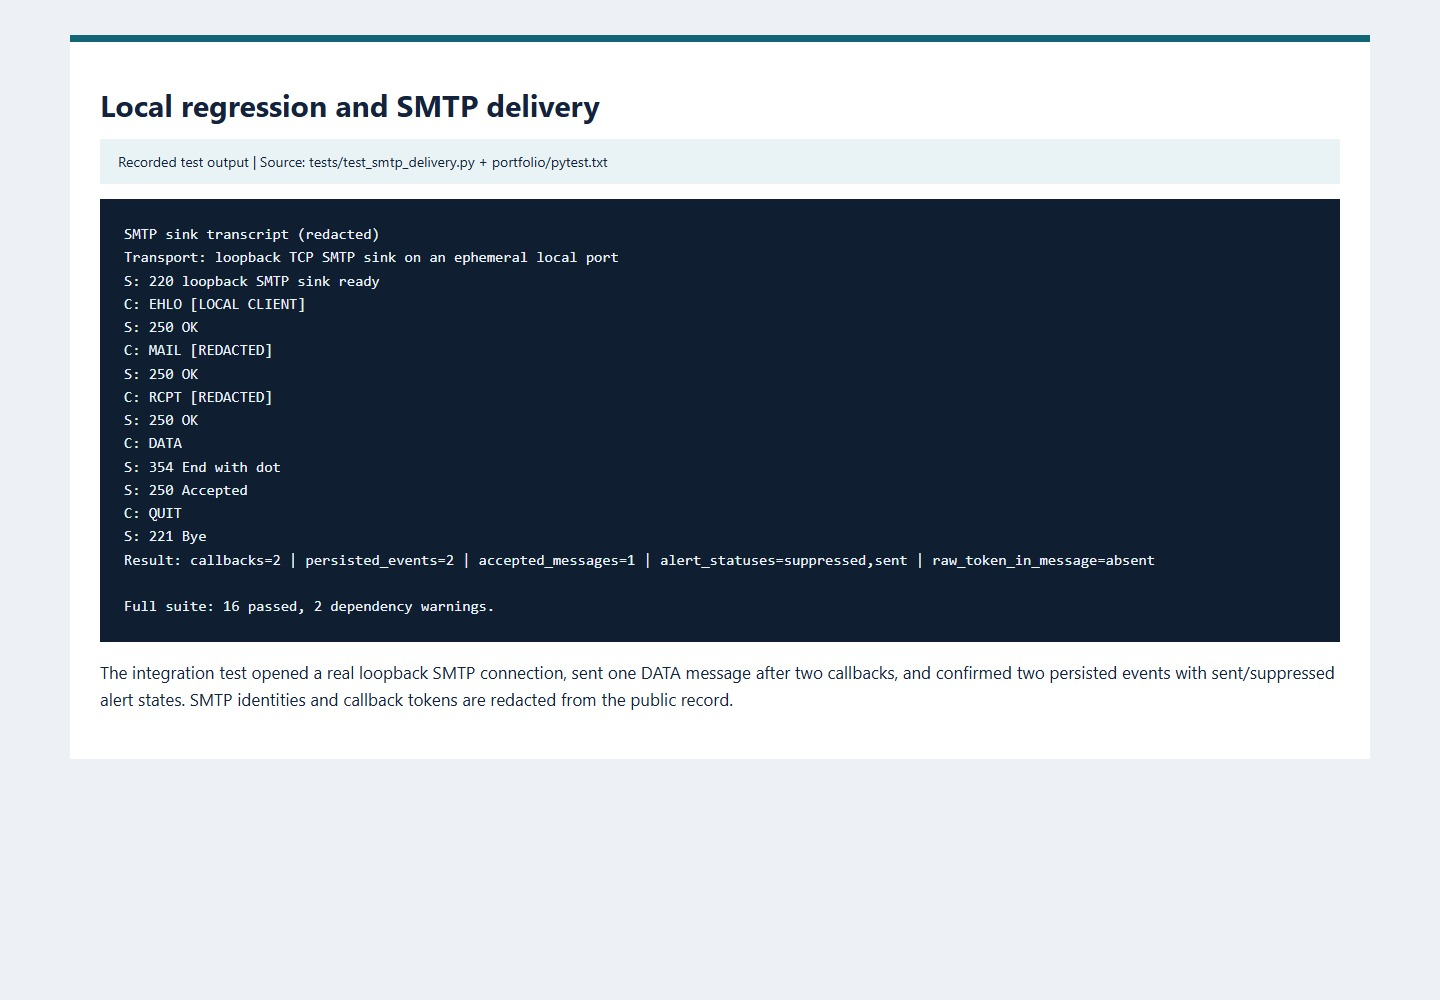
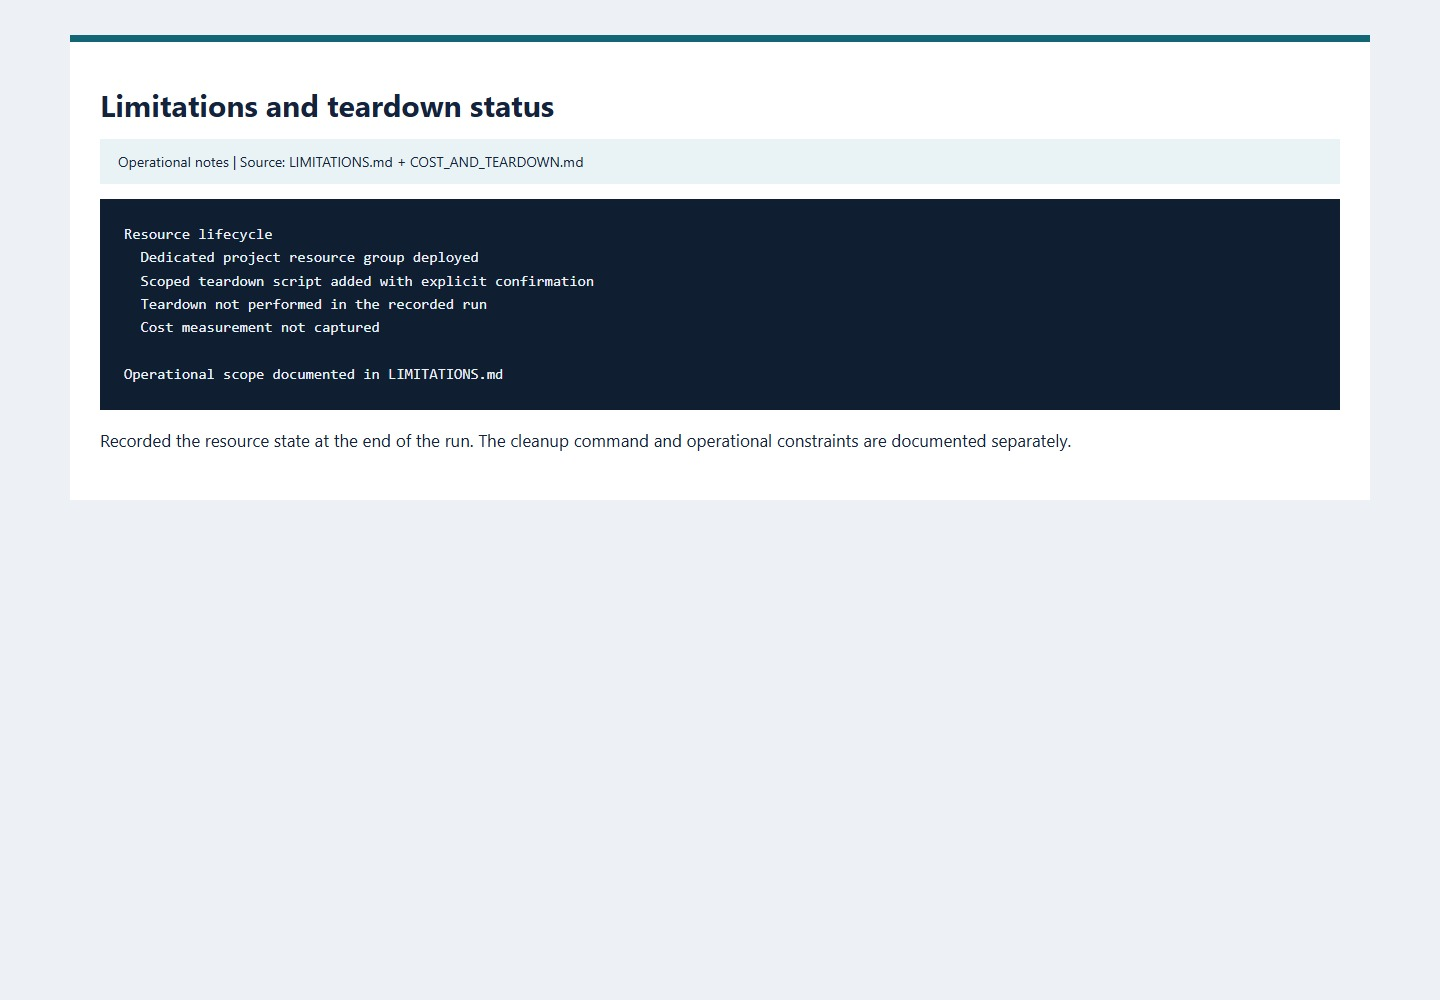
Consolidate duplicate CI evidence

Changed region(s): [[0.0625, 0.217, 0.9375, 0.713], [0.0625, 0.093, 0.4375, 0.124], [0.0938, 0.155, 0.4062, 0.186]]

diff --git a/docs/evidence/public/index.html b/docs/evidence/public/index.html
@@ -1,1 +1,1 @@
-<!doctype html><html lang="en"><meta charset="utf-8"><meta name="viewport" content="width=device-width,initial-scale=1"><title>Honey Token — screenshot walkthrough</title><style>body{margin:0;background:#edf1f5;color:#14233b;font:17px/1.55 Segoe UI,Arial}main{max-width:1240px;margin:35px auto;padding:30px;background:white;border-top:7px solid #126675}h1{font-size:30px;margin:10px 0}.meta{padding:12px 18px;background:#e9f2f4;font-size:14px}pre{white-space:pre-wrap;overflow-wrap:anywhere;font:15px/1.55 Consolas,monospace;background:#101e32;color:#ebf3fa;padding:24px}a{color:#126675}img{max-width:100%;height:auto}article{margin:36px 0;padding-top:20px;border-top:1px solid #ccd5dc}</style><main><h1>Honey Token</h1><p>Project walkthrough recorded on 7 September 2026, covering setup, deployment, document retrieval, event triage, Sentinel ingestion, and tests. Word and GitHub images are application captures; Azure images use saved deployment responses and query results.</p><p>Account details, email addresses, source IPs, tenant/subscription identifiers, callback tokens, and resource endpoints are redacted or excluded. Raw records remain outside this package.</p><h2>Project walkthrough</h2><ol><li><a href="#step01">Purpose and architecture</a></li><li><a href="#step02">Starting state and baseline</a></li><li><a href="#step03">Infrastructure deployment</a></li><li><a href="#step04">Receiver security configuration</a></li><li><a href="#step05">Deployed receiver health</a></li><li><a href="#step06">Word renders the synthetic decoy</a></li><li><a href="#step07">Word callback and triage</a></li><li><a href="#step08">Persisted events and delivery outcomes</a></li><li><a href="#step09">Log Analytics ingestion</a></li><li><a href="#step10">Sentinel analytic rule</a></li><li><a href="#step11">Sentinel incident</a></li><li><a href="#step12">GitHub main CI status</a></li><li><a href="#step13">GitHub test job</a></li><li><a href="#step14">GitHub pytest log</a></li><li><a href="#step15">Local regression and SMTP delivery</a></li><li><a href="#step16">Secret scanning</a></li><li><a href="#step17">Limitations and teardown status</a></li></ol><article id="step01"><h2>01. Purpose and architecture</h2><div class="meta">Design summary | Source: ARCHITECTURE.md</div><p>Extended the local document-token receiver with Azure Table Storage and Sentinel ingestion. Word and cloud callbacks were exercised separately.</p><a href="01-evidence.jpg"><img loading="lazy" src="01-evidence.jpg" alt="Purpose and architecture"></a></article><article id="step02"><h2>02. Starting state and baseline</h2><div class="meta">Archived record, captured 2026-09-07 | Source: 00-azure-start-state.json + docs/BASELINE.md</div><p>Recorded the local SQLite starting point and nine passing baseline tests before adding the Azure adapters.</p><a href="02-evidence.jpg"><img loading="lazy" src="02-evidence.jpg" alt="Starting state and baseline"></a></article><article id="step03"><h2>03. Infrastructure deployment</h2><div class="meta">Archived Azure deployment response | Source: 03-bicep-final-deployment.json</div><p>Deployed the Bicep resources successfully. Resource identifiers and endpoint values are omitted from the saved response.</p><a href="03-evidence.jpg"><img loading="lazy" src="03-evidence.jpg" alt="Infrastructure deployment"></a></article><article id="step04"><h2>04. Receiver security configuration</h2><div class="meta">Source configuration evidence | Source: infra/main.bicep</div><p>Disabled registry admin access and storage shared keys, required HTTPS, and disabled public management routes in the deployment configuration.</p><a href="04-evidence.jpg"><img loading="lazy" src="04-evidence.jpg" alt="Receiver security configuration"></a></article><article id="step05"><h2>05. Deployed receiver health</h2><div class="meta">Archived HTTP result | Source: 09-container-app-health.json</div><p>Requested the deployed health endpoint; it returned HTTP 200 with receiver-only mode and Azure Table Storage.</p><a href="05-evidence.jpg"><img loading="lazy" src="05-evidence.jpg" alt="Deployed receiver health"></a></article><article id="step06"><h2>06. Word renders the synthetic decoy</h2><div class="meta">Microsoft Word UI capture | Source: Word 16.0.20326.20132</div><p>Opened the generated synthetic document in Word. The local callback it produced is recorded in image 07.</p><a href="06-word-decoy.png"><img loading="lazy" src="06-word-decoy.png" alt="Word renders the synthetic decoy"></a></article><article id="step07"><h2>07. Word callback and triage</h2><div class="meta">Archived event from observed Word open | Source: word-viewer-result.json</div><p>Captured the Office User-Agent and high-severity event when Word requested the loopback pixel.</p><a href="07-evidence.jpg"><img loading="lazy" src="07-evidence.jpg" alt="Word callback and triage"></a></article><article id="step08"><h2>08. Persisted events and delivery outcomes</h2><div class="meta">Archived Azure Table query | Source: table-events-sanitized.json</div><p>Queried stored events and retained both successful delivery outcomes and the first failed ingestion attempt.</p><a href="08-evidence.jpg"><img loading="lazy" src="08-evidence.jpg" alt="Persisted events and delivery outcomes"></a></article><article id="step09"><h2>09. Log Analytics ingestion</h2><div class="meta">Archived CanaryHit_CL query | Source: log-analytics-latest.json</div><p>Queried four ingested records, including a scanner classification and a suppressed repeat notification.</p><a href="09-evidence.jpg"><img loading="lazy" src="09-evidence.jpg" alt="Log Analytics ingestion"></a></article><article id="step10"><h2>10. Sentinel analytic rule</h2><div class="meta">Archived rule configuration | Source: sentinel-rule.json</div><p>Deployed a five-minute Sentinel rule with a ten-minute lookback and incident creation enabled. The query selected all callback rows; scanner and repeat rows were included.</p><a href="10-evidence.jpg"><img loading="lazy" src="10-evidence.jpg" alt="Sentinel analytic rule"></a></article><article id="step11"><h2>11. Sentinel incident</h2><div class="meta">Archived Sentinel incident response | Source: sentinel-incidents.json</div><p>Recorded the resulting high-severity Sentinel incident. Account and resource identifiers are omitted.</p><a href="11-evidence.jpg"><img loading="lazy" src="11-evidence.jpg" alt="Sentinel incident"></a></article><article id="step12"><h2>12. GitHub main CI status</h2><div class="meta">GitHub UI capture | Source: Actions run 34152044446, commit 2858824</div><p>Captured the completed main-branch CI run after the application fixes.</p><a href="12-github-ci-status.jpg"><img loading="lazy" src="12-github-ci-status.jpg" alt="GitHub main CI status"></a></article><article id="step13"><h2>13. GitHub test job</h2><div class="meta">GitHub UI capture | Source: Actions run 34152044446</div><p>Captured the successful test job in the same GitHub Actions run.</p><a href="13-github-test-job.jpg"><img loading="lazy" src="13-github-test-job.jpg" alt="GitHub test job"></a></article><article id="step14"><h2>14. GitHub pytest log</h2><div class="meta">GitHub UI capture | Source: Job 101836165394 in Actions run 34152044446</div><p>Captured the pytest output from the completed GitHub test job.</p><a href="14-github-pytest-output.jpg"><img loading="lazy" src="14-github-pytest-output.jpg" alt="GitHub pytest log"></a></article><article id="step15"><h2>15. Local regression and SMTP delivery</h2><div class="meta">Recorded test output | Source: tests/test_smtp_delivery.py + portfolio/pytest.txt</div><p>The integration test opened a real loopback SMTP connection, sent one DATA message after two callbacks, and confirmed two persisted events with sent/suppressed alert states. SMTP identities and callback tokens are redacted from the public record.</p><a href="15-evidence.jpg"><img loading="lazy" src="15-evidence.jpg" alt="Local regression and SMTP delivery"></a></article><article id="step16"><h2>16. Secret scanning</h2><div class="meta">Gitleaks output | Source: portfolio/gitleaks.txt</div><p>Scanned the tracked history with Gitleaks; the recorded scan found no secrets.</p><a href="16-evidence.jpg"><img loading="lazy" src="16-evidence.jpg" alt="Secret scanning"></a></article><article id="step17"><h2>17. Limitations and teardown status</h2><div class="meta">Operational notes | Source: LIMITATIONS.md + COST_AND_TEARDOWN.md</div><p>Recorded the resource state at the end of the run. The cleanup command and operational constraints are documented separately.</p><a href="17-evidence.jpg"><img loading="lazy" src="17-evidence.jpg" alt="Limitations and teardown status"></a></article></main></html>
+<!doctype html><html lang="en"><meta charset="utf-8"><meta name="viewport" content="width=device-width,initial-scale=1"><title>Honey Token — screenshot walkthrough</title><style>body{margin:0;background:#edf1f5;color:#14233b;font:17px/1.55 Segoe UI,Arial}main{max-width:1240px;margin:35px auto;padding:30px;background:white;border-top:7px solid #126675}h1{font-size:30px;margin:10px 0}.meta{padding:12px 18px;background:#e9f2f4;font-size:14px}pre{white-space:pre-wrap;overflow-wrap:anywhere;font:15px/1.55 Consolas,monospace;background:#101e32;color:#ebf3fa;padding:24px}a{color:#126675}img{max-width:100%;height:auto}article{margin:36px 0;padding-top:20px;border-top:1px solid #ccd5dc}</style><main><h1>Honey Token</h1><p>Project walkthrough recorded on 7 September 2026, covering setup, deployment, document retrieval, event triage, Sentinel ingestion, and tests. Word and GitHub images are application captures; Azure images use saved deployment responses and query results.</p><p>Account details, email addresses, source IPs, tenant/subscription identifiers, callback tokens, and resource endpoints are redacted or excluded. Raw records remain outside this package.</p><h2>Project walkthrough</h2><ol><li><a href="#step01">Purpose and architecture</a></li><li><a href="#step02">Starting state and baseline</a></li><li><a href="#step03">Infrastructure deployment</a></li><li><a href="#step04">Receiver security configuration</a></li><li><a href="#step05">Deployed receiver health</a></li><li><a href="#step06">Word renders the synthetic decoy</a></li><li><a href="#step07">Word callback and triage</a></li><li><a href="#step08">Persisted events and delivery outcomes</a></li><li><a href="#step09">Log Analytics ingestion</a></li><li><a href="#step10">Sentinel analytic rule</a></li><li><a href="#step11">Sentinel incident</a></li><li><a href="#step12">GitHub Actions test run</a></li><li><a href="#step13">Local regression and SMTP delivery</a></li><li><a href="#step14">Secret scanning</a></li><li><a href="#step15">Limitations and teardown status</a></li></ol><article id="step01"><h2>01. Purpose and architecture</h2><div class="meta">Design summary | Source: ARCHITECTURE.md</div><p>Extended the local document-token receiver with Azure Table Storage and Sentinel ingestion. Word and cloud callbacks were exercised separately.</p><a href="01-evidence.jpg"><img loading="lazy" src="01-evidence.jpg" alt="Purpose and architecture"></a></article><article id="step02"><h2>02. Starting state and baseline</h2><div class="meta">Archived record, captured 2026-09-07 | Source: 00-azure-start-state.json + docs/BASELINE.md</div><p>Recorded the local SQLite starting point and nine passing baseline tests before adding the Azure adapters.</p><a href="02-evidence.jpg"><img loading="lazy" src="02-evidence.jpg" alt="Starting state and baseline"></a></article><article id="step03"><h2>03. Infrastructure deployment</h2><div class="meta">Archived Azure deployment response | Source: 03-bicep-final-deployment.json</div><p>Deployed the Bicep resources successfully. Resource identifiers and endpoint values are omitted from the saved response.</p><a href="03-evidence.jpg"><img loading="lazy" src="03-evidence.jpg" alt="Infrastructure deployment"></a></article><article id="step04"><h2>04. Receiver security configuration</h2><div class="meta">Source configuration evidence | Source: infra/main.bicep</div><p>Disabled registry admin access and storage shared keys, required HTTPS, and disabled public management routes in the deployment configuration.</p><a href="04-evidence.jpg"><img loading="lazy" src="04-evidence.jpg" alt="Receiver security configuration"></a></article><article id="step05"><h2>05. Deployed receiver health</h2><div class="meta">Archived HTTP result | Source: 09-container-app-health.json</div><p>Requested the deployed health endpoint; it returned HTTP 200 with receiver-only mode and Azure Table Storage.</p><a href="05-evidence.jpg"><img loading="lazy" src="05-evidence.jpg" alt="Deployed receiver health"></a></article><article id="step06"><h2>06. Word renders the synthetic decoy</h2><div class="meta">Microsoft Word UI capture | Source: Word 16.0.20326.20132</div><p>Opened the generated synthetic document in Word. The local callback it produced is recorded in image 07.</p><a href="06-word-decoy.png"><img loading="lazy" src="06-word-decoy.png" alt="Word renders the synthetic decoy"></a></article><article id="step07"><h2>07. Word callback and triage</h2><div class="meta">Archived event from observed Word open | Source: word-viewer-result.json</div><p>Captured the Office User-Agent and high-severity event when Word requested the loopback pixel.</p><a href="07-evidence.jpg"><img loading="lazy" src="07-evidence.jpg" alt="Word callback and triage"></a></article><article id="step08"><h2>08. Persisted events and delivery outcomes</h2><div class="meta">Archived Azure Table query | Source: table-events-sanitized.json</div><p>Queried stored events and retained both successful delivery outcomes and the first failed ingestion attempt.</p><a href="08-evidence.jpg"><img loading="lazy" src="08-evidence.jpg" alt="Persisted events and delivery outcomes"></a></article><article id="step09"><h2>09. Log Analytics ingestion</h2><div class="meta">Archived CanaryHit_CL query | Source: log-analytics-latest.json</div><p>Queried four ingested records, including a scanner classification and a suppressed repeat notification.</p><a href="09-evidence.jpg"><img loading="lazy" src="09-evidence.jpg" alt="Log Analytics ingestion"></a></article><article id="step10"><h2>10. Sentinel analytic rule</h2><div class="meta">Archived rule configuration | Source: sentinel-rule.json</div><p>Deployed a five-minute Sentinel rule with a ten-minute lookback and incident creation enabled. The query selected all callback rows; scanner and repeat rows were included.</p><a href="10-evidence.jpg"><img loading="lazy" src="10-evidence.jpg" alt="Sentinel analytic rule"></a></article><article id="step11"><h2>11. Sentinel incident</h2><div class="meta">Archived Sentinel incident response | Source: sentinel-incidents.json</div><p>Recorded the resulting high-severity Sentinel incident. Account and resource identifiers are omitted.</p><a href="11-evidence.jpg"><img loading="lazy" src="11-evidence.jpg" alt="Sentinel incident"></a></article><article id="step12"><h2>12. GitHub Actions test run</h2><div class="meta">GitHub UI capture | Source: Job 101836165394 in Actions run 34152044446</div><p>The main-branch Actions test job completed successfully and recorded 16 passing tests.</p><a href="12-github-pytest-output.jpg"><img loading="lazy" src="12-github-pytest-output.jpg" alt="GitHub Actions test run"></a></article><article id="step13"><h2>13. Local regression and SMTP delivery</h2><div class="meta">Recorded test output | Source: tests/test_smtp_delivery.py + portfolio/pytest.txt</div><p>The integration test opened a real loopback SMTP connection, sent one DATA message after two callbacks, and confirmed two persisted events with sent/suppressed alert states. SMTP identities and callback tokens are redacted from the public record.</p><a href="13-evidence.jpg"><img loading="lazy" src="13-evidence.jpg" alt="Local regression and SMTP delivery"></a></article><article id="step14"><h2>14. Secret scanning</h2><div class="meta">Gitleaks output | Source: portfolio/gitleaks.txt</div><p>Scanned the tracked history with Gitleaks; the recorded scan found no secrets.</p><a href="14-evidence.jpg"><img loading="lazy" src="14-evidence.jpg" alt="Secret scanning"></a></article><article id="step15"><h2>15. Limitations and teardown status</h2><div class="meta">Operational notes | Source: LIMITATIONS.md + COST_AND_TEARDOWN.md</div><p>Recorded the resource state at the end of the run. The cleanup command and operational constraints are documented separately.</p><a href="15-evidence.jpg"><img loading="lazy" src="15-evidence.jpg" alt="Limitations and teardown status"></a></article></main></html>

diff --git a/docs/evidence/public/15-evidence.html b/docs/evidence/public/15-evidence.html
@@ -1,17 +1,7 @@
-<!doctype html><html lang="en"><meta charset="utf-8"><title>Local regression and SMTP delivery</title><style>body{margin:0;background:#edf1f5;color:#14233b;font:17px/1.55 Segoe UI,Arial}main{max-width:1240px;margin:35px auto;padding:30px;background:white;border-top:7px solid #126675}h1{font-size:30px;margin:10px 0}.meta{padding:12px 18px;background:#e9f2f4;font-size:14px}pre{white-space:pre-wrap;overflow-wrap:anywhere;font:15px/1.55 Consolas,monospace;background:#101e32;color:#ebf3fa;padding:24px}a{color:#126675}img{max-width:100%;height:auto}article{margin:36px 0;padding-top:20px;border-top:1px solid #ccd5dc}</style><main><h1>Local regression and SMTP delivery</h1><div class="meta">Recorded test output | Source: tests/test_smtp_delivery.py + portfolio/pytest.txt</div><pre>SMTP sink transcript (redacted)
-Transport: loopback TCP SMTP sink on an ephemeral local port
-S: 220 loopback SMTP sink ready
-C: EHLO [LOCAL CLIENT]
-S: 250 OK
-C: MAIL [REDACTED]
-S: 250 OK
-C: RCPT [REDACTED]
-S: 250 OK
-C: DATA
-S: 354 End with dot
-S: 250 Accepted
-C: QUIT
-S: 221 Bye
-Result: callbacks=2 | persisted_events=2 | accepted_messages=1 | alert_statuses=suppressed,sent | raw_token_in_message=absent
+<!doctype html><html lang="en"><meta charset="utf-8"><title>Limitations and teardown status</title><style>body{margin:0;background:#edf1f5;color:#14233b;font:17px/1.55 Segoe UI,Arial}main{max-width:1240px;margin:35px auto;padding:30px;background:white;border-top:7px solid #126675}h1{font-size:30px;margin:10px 0}.meta{padding:12px 18px;background:#e9f2f4;font-size:14px}pre{white-space:pre-wrap;overflow-wrap:anywhere;font:15px/1.55 Consolas,monospace;background:#101e32;color:#ebf3fa;padding:24px}a{color:#126675}img{max-width:100%;height:auto}article{margin:36px 0;padding-top:20px;border-top:1px solid #ccd5dc}</style><main><h1>Limitations and teardown status</h1><div class="meta">Operational notes | Source: LIMITATIONS.md + COST_AND_TEARDOWN.md</div><pre>Resource lifecycle
+  Dedicated project resource group deployed
+  Scoped teardown script added with explicit confirmation
+  Teardown not performed in the recorded run
+  Cost measurement not captured
 
-Full suite: 16 passed, 2 dependency warnings.</pre><p>The integration test opened a real loopback SMTP connection, sent one DATA message after two callbacks, and confirmed two persisted events with sent/suppressed alert states. SMTP identities and callback tokens are redacted from the public record.</p></main></html>
+Operational scope documented in LIMITATIONS.md</pre><p>Recorded the resource state at the end of the run. The cleanup command and operational constraints are documented separately.</p></main></html>

diff --git a/docs/evidence/public/13-evidence.html b/docs/evidence/public/13-evidence.html
@@ -1,0 +1,17 @@
+<!doctype html><html lang="en"><meta charset="utf-8"><title>Local regression and SMTP delivery</title><style>body{margin:0;background:#edf1f5;color:#14233b;font:17px/1.55 Segoe UI,Arial}main{max-width:1240px;margin:35px auto;padding:30px;background:white;border-top:7px solid #126675}h1{font-size:30px;margin:10px 0}.meta{padding:12px 18px;background:#e9f2f4;font-size:14px}pre{white-space:pre-wrap;overflow-wrap:anywhere;font:15px/1.55 Consolas,monospace;background:#101e32;color:#ebf3fa;padding:24px}a{color:#126675}img{max-width:100%;height:auto}article{margin:36px 0;padding-top:20px;border-top:1px solid #ccd5dc}</style><main><h1>Local regression and SMTP delivery</h1><div class="meta">Recorded test output | Source: tests/test_smtp_delivery.py + portfolio/pytest.txt</div><pre>SMTP sink transcript (redacted)
+Transport: loopback TCP SMTP sink on an ephemeral local port
+S: 220 loopback SMTP sink ready
+C: EHLO [LOCAL CLIENT]
+S: 250 OK
+C: MAIL [REDACTED]
+S: 250 OK
+C: RCPT [REDACTED]
+S: 250 OK
+C: DATA
+S: 354 End with dot
+S: 250 Accepted
+C: QUIT
+S: 221 Bye
+Result: callbacks=2 | persisted_events=2 | accepted_messages=1 | alert_statuses=suppressed,sent | raw_token_in_message=absent
+
+Full suite: 16 passed, 2 dependency warnings.</pre><p>The integration test opened a real loopback SMTP connection, sent one DATA message after two callbacks, and confirmed two persisted events with sent/suppressed alert states. SMTP identities and callback tokens are redacted from the public record.</p></main></html>

diff --git a/docs/evidence/public/README.md b/docs/evidence/public/README.md
@@ -8,7 +8,7 @@ Account details, email addresses, source IPs, tenant/subscription identifiers, c
 
 ## Browse the evidence
 
-[Deployment](#03-infrastructure-deployment) · [Word callback](#07-word-callback-and-triage) · [Sentinel incident](#11-sentinel-incident) · [Tests](#15-local-regression-and-smtp-delivery)
+[Deployment](#03-infrastructure-deployment) · [Word callback](#07-word-callback-and-triage) · [Sentinel incident](#11-sentinel-incident) · [Tests](#13-local-regression-and-smtp-delivery)
 
 ## 01. Purpose and architecture
 
@@ -98,50 +98,34 @@ Recorded the resulting high-severity Sentinel incident. Account and resource ide
 
 ![Sentinel incident](11-evidence.jpg)
 
-## 12. GitHub main CI status
-
-**GitHub UI capture** — Source: `Actions run 34152044446, commit 2858824`.
-
-Captured the completed main-branch CI run after the application fixes.
-
-![GitHub main CI status](12-github-ci-status.jpg)
-
-## 13. GitHub test job
-
-**GitHub UI capture** — Source: `Actions run 34152044446`.
-
-Captured the successful test job in the same GitHub Actions run.
-
-![GitHub test job](13-github-test-job.jpg)
-
-## 14. GitHub pytest log
+## 12. GitHub Actions test run
 
 **GitHub UI capture** — Source: `Job 101836165394 in Actions run 34152044446`.
 
-Captured the pytest output from the completed GitHub test job.
+The main-branch Actions test job completed successfully and recorded 16 passing tests.
 
-![GitHub pytest log](14-github-pytest-output.jpg)
+![GitHub Actions test run](12-github-pytest-output.jpg)
 
-## 15. Local regression and SMTP delivery
+## 13. Local regression and SMTP delivery
 
 **Recorded test output** — Source: `tests/test_smtp_delivery.py + portfolio/pytest.txt`.
 
 The integration test opened a real loopback SMTP connection, sent one DATA message after two callbacks, and confirmed two persisted events with sent/suppressed alert states. SMTP identities and callback tokens are redacted from the public record.
 
-![Local regression and SMTP delivery](15-evidence.jpg)
+![Local regression and SMTP delivery](13-evidence.jpg)
 
-## 16. Secret scanning
+## 14. Secret scanning
 
 **Gitleaks output** — Source: `portfolio/gitleaks.txt`.
 
 Scanned the tracked history with Gitleaks; the recorded scan found no secrets.
 
-![Secret scanning](16-evidence.jpg)
+![Secret scanning](14-evidence.jpg)
 
-## 17. Limitations and teardown status
+## 15. Limitations and teardown status
 
 **Operational notes** — Source: `LIMITATIONS.md + COST_AND_TEARDOWN.md`.
 
 Recorded the resource state at the end of the run. The cleanup command and operational constraints are documented separately.
 
-![Limitations and teardown status](17-evidence.jpg)
+![Limitations and teardown status](15-evidence.jpg)

diff --git a/TESTING.md b/TESTING.md
@@ -8,7 +8,7 @@ The local baseline passed nine tests. After the Azure adapters and failure-handl
 | DOCX generation | The package contained an external image relationship; malformed filenames were rejected |
 | Management authentication | Unauthenticated remote requests were rejected; non-ASCII credentials returned 401 |
 | Receiver-only routing | Management endpoints returned 404 |
-| SMTP sink | The loopback sink accepted one SMTP `DATA` message after two callbacks; two events persisted with `sent` and `suppressed` alert states ([test](tests/test_smtp_delivery.py), [transcript](docs/evidence/public/15-evidence.html)) |
+| SMTP sink | The loopback sink accepted one SMTP `DATA` message after two callbacks; two events persisted with `sent` and `suppressed` alert states ([test](tests/test_smtp_delivery.py), [transcript](docs/evidence/public/13-evidence.html)) |
 | SMTP failure | The event retained a failed status, the response remained a GIF, and Sentinel ingestion was attempted |
 | Missing Sentinel adapter | Ingestion status was recorded as disabled |
 | Event redaction | Public event output excluded raw callback identifiers |
